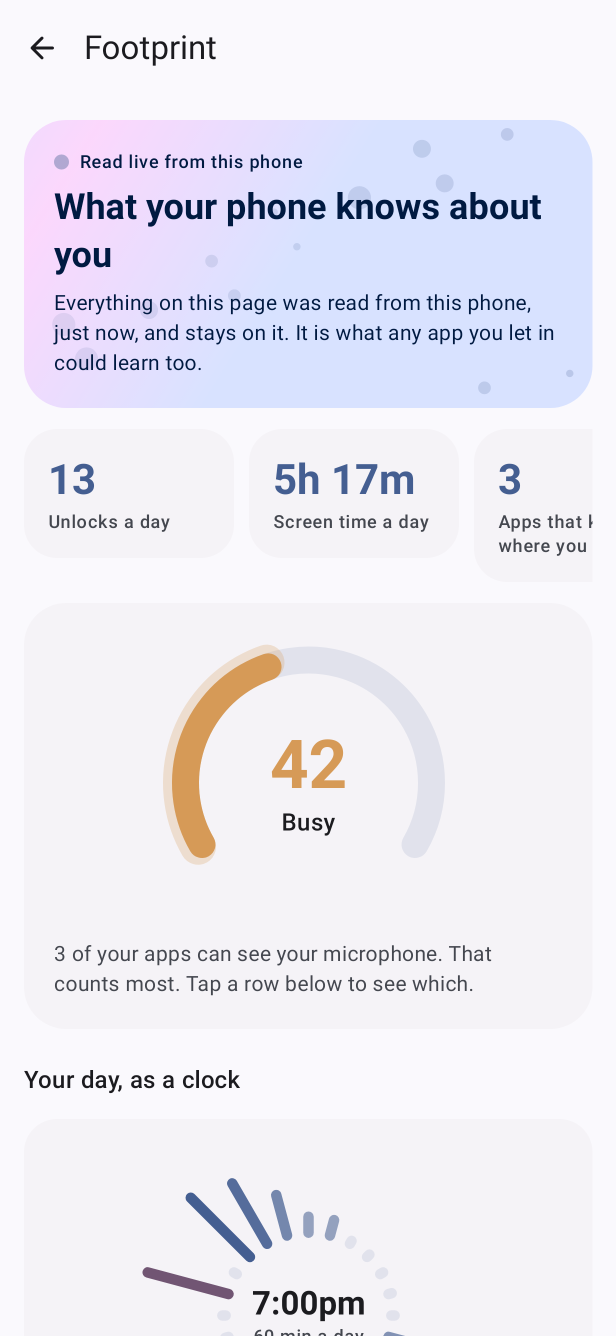
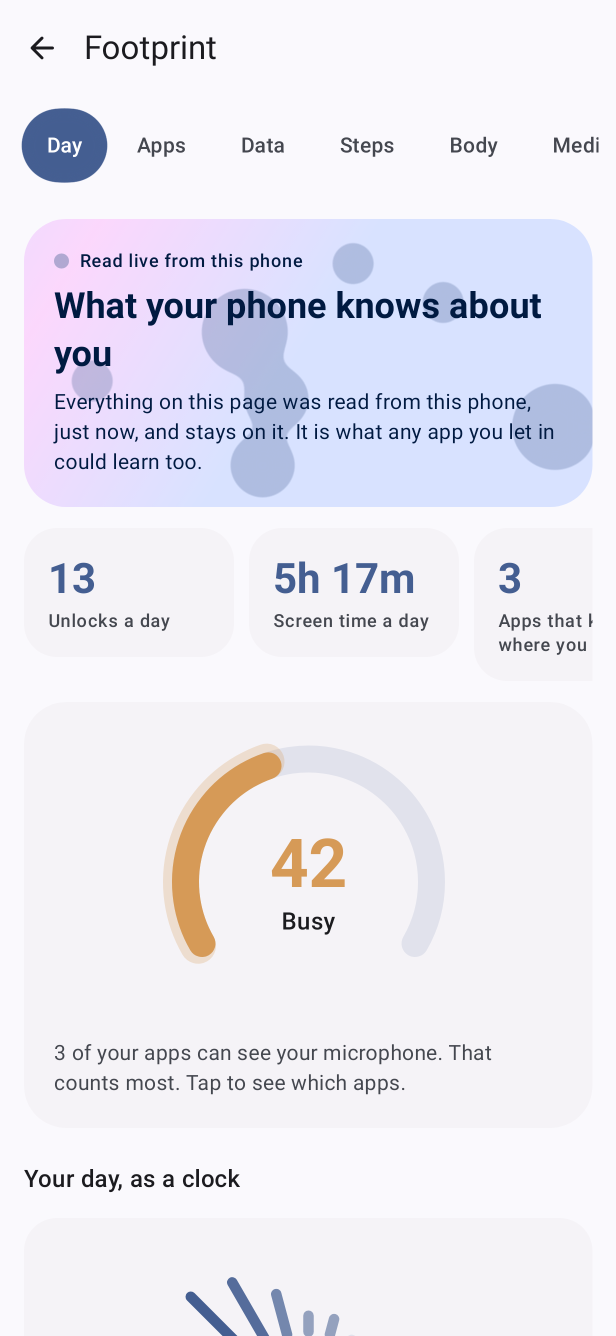
chore(release): 1.39.0 changelog, screenshots, 2 GB test heap
Claude-Session: https://claude.ai/code/session_01Tx3SnRy1Ho2ASXx4YFffLW

diff --git a/app/src/main/java/app/ultimate/home/AboutInfo.kt b/app/src/main/java/app/ultimate/home/AboutInfo.kt
@@ -34,6 +34,11 @@ object Changelog {
     data class Entry(val version: String, val notes: List<String>)
 
     val entries = listOf(
+        Entry("1.39.0", listOf(
+            "Gooey motion across the app: switches whose thumb stretches like a drop, tab and option pickers with a liquid pill, progress bars that flow and bud droplets, and a success check made of drops that melt together.",
+            "The floating orb's actions bud out of it on liquid necks. Home's running-work banner shows the work flowing.",
+            "Turn animations off in Android's settings and everything holds still. Phones older than Android 12 get the same shapes without the melting.",
+        )),
         Entry("1.38.0", listOf("Footprint is interactive: a sliding section bar to jump around, tap an app for what it can see and a button to change it, tap the exposure gauge to see which apps add most, tap any square of the week map, and tap a stat to jump to its section.")),
         Entry("1.37.0", listOf("Gooey effect in Footprint: drops of colour that merge and split in the header, and places that are close on your photo map melt into one blob (Android 12 and newer).")),
         Entry("1.36.0", listOf("Footprint: an exposure gauge for how much your apps can see, a header that drifts away as you scroll, shimmer while loading, haptic taps, a pulsing home dot on the places map, and a live equalizer on watch history.")),

diff --git a/app/src/test/java/app/ultimate/AboutTest.kt b/app/src/test/java/app/ultimate/AboutTest.kt
@@ -33,7 +33,7 @@ class AboutTest {
 
     @Test fun theChangelogStartsAtTheCurrentVersion() {
         assertEquals(listOf("1.30.0", "1.29.0"), Changelog.recent("1.30.0", 2).map { it.version })
-        assertEquals("1.38.0", Changelog.entries.first().version)
+        assertEquals("1.39.0", Changelog.entries.first().version)
         assertEquals(Changelog.entries.first().version, Changelog.recent("9.9.9", 1).single().version) // an unknown version still shows the latest news
         assertTrue(Changelog.entries.map { it.version }.toSet().size == Changelog.entries.size)
     }

diff --git a/README.md b/README.md
@@ -14,7 +14,7 @@ One Android app that holds a growing set of tools for your own phone: edit and s
   <img src="docs/screenshots/about.png" width="23%" alt="About and settings">
 </p>
 
-<sub>Screenshots are the app's own screens, rendered on a simulated phone with sample data (not photos of a real device). Home, Storage, inside a folder, Footprint (a sample week, since a simulator has no real usage history), Rules, SSH hosts, About and settings. Regenerate them with `gradle -Pscreenshots :app:testUltimateplusDebugUnitTest --tests '*ScreenshotTest'`.</sub>
+<sub>Screenshots are the app's own screens, rendered on a simulated phone with sample data (not photos of a real device). Home, Storage, inside a folder, Footprint (a sample week, since a simulator has no real usage history), Rules, SSH hosts, About and settings. The simulator cannot draw Android's blur effect, so the gooey melting (Android 12 and newer) does not show in these pictures; shapes appear as they do on older phones. Regenerate them with `gradle -Pscreenshots :app:testUltimateplusDebugUnitTest --tests '*ScreenshotTest'`.</sub>
 
 ## Download
 
